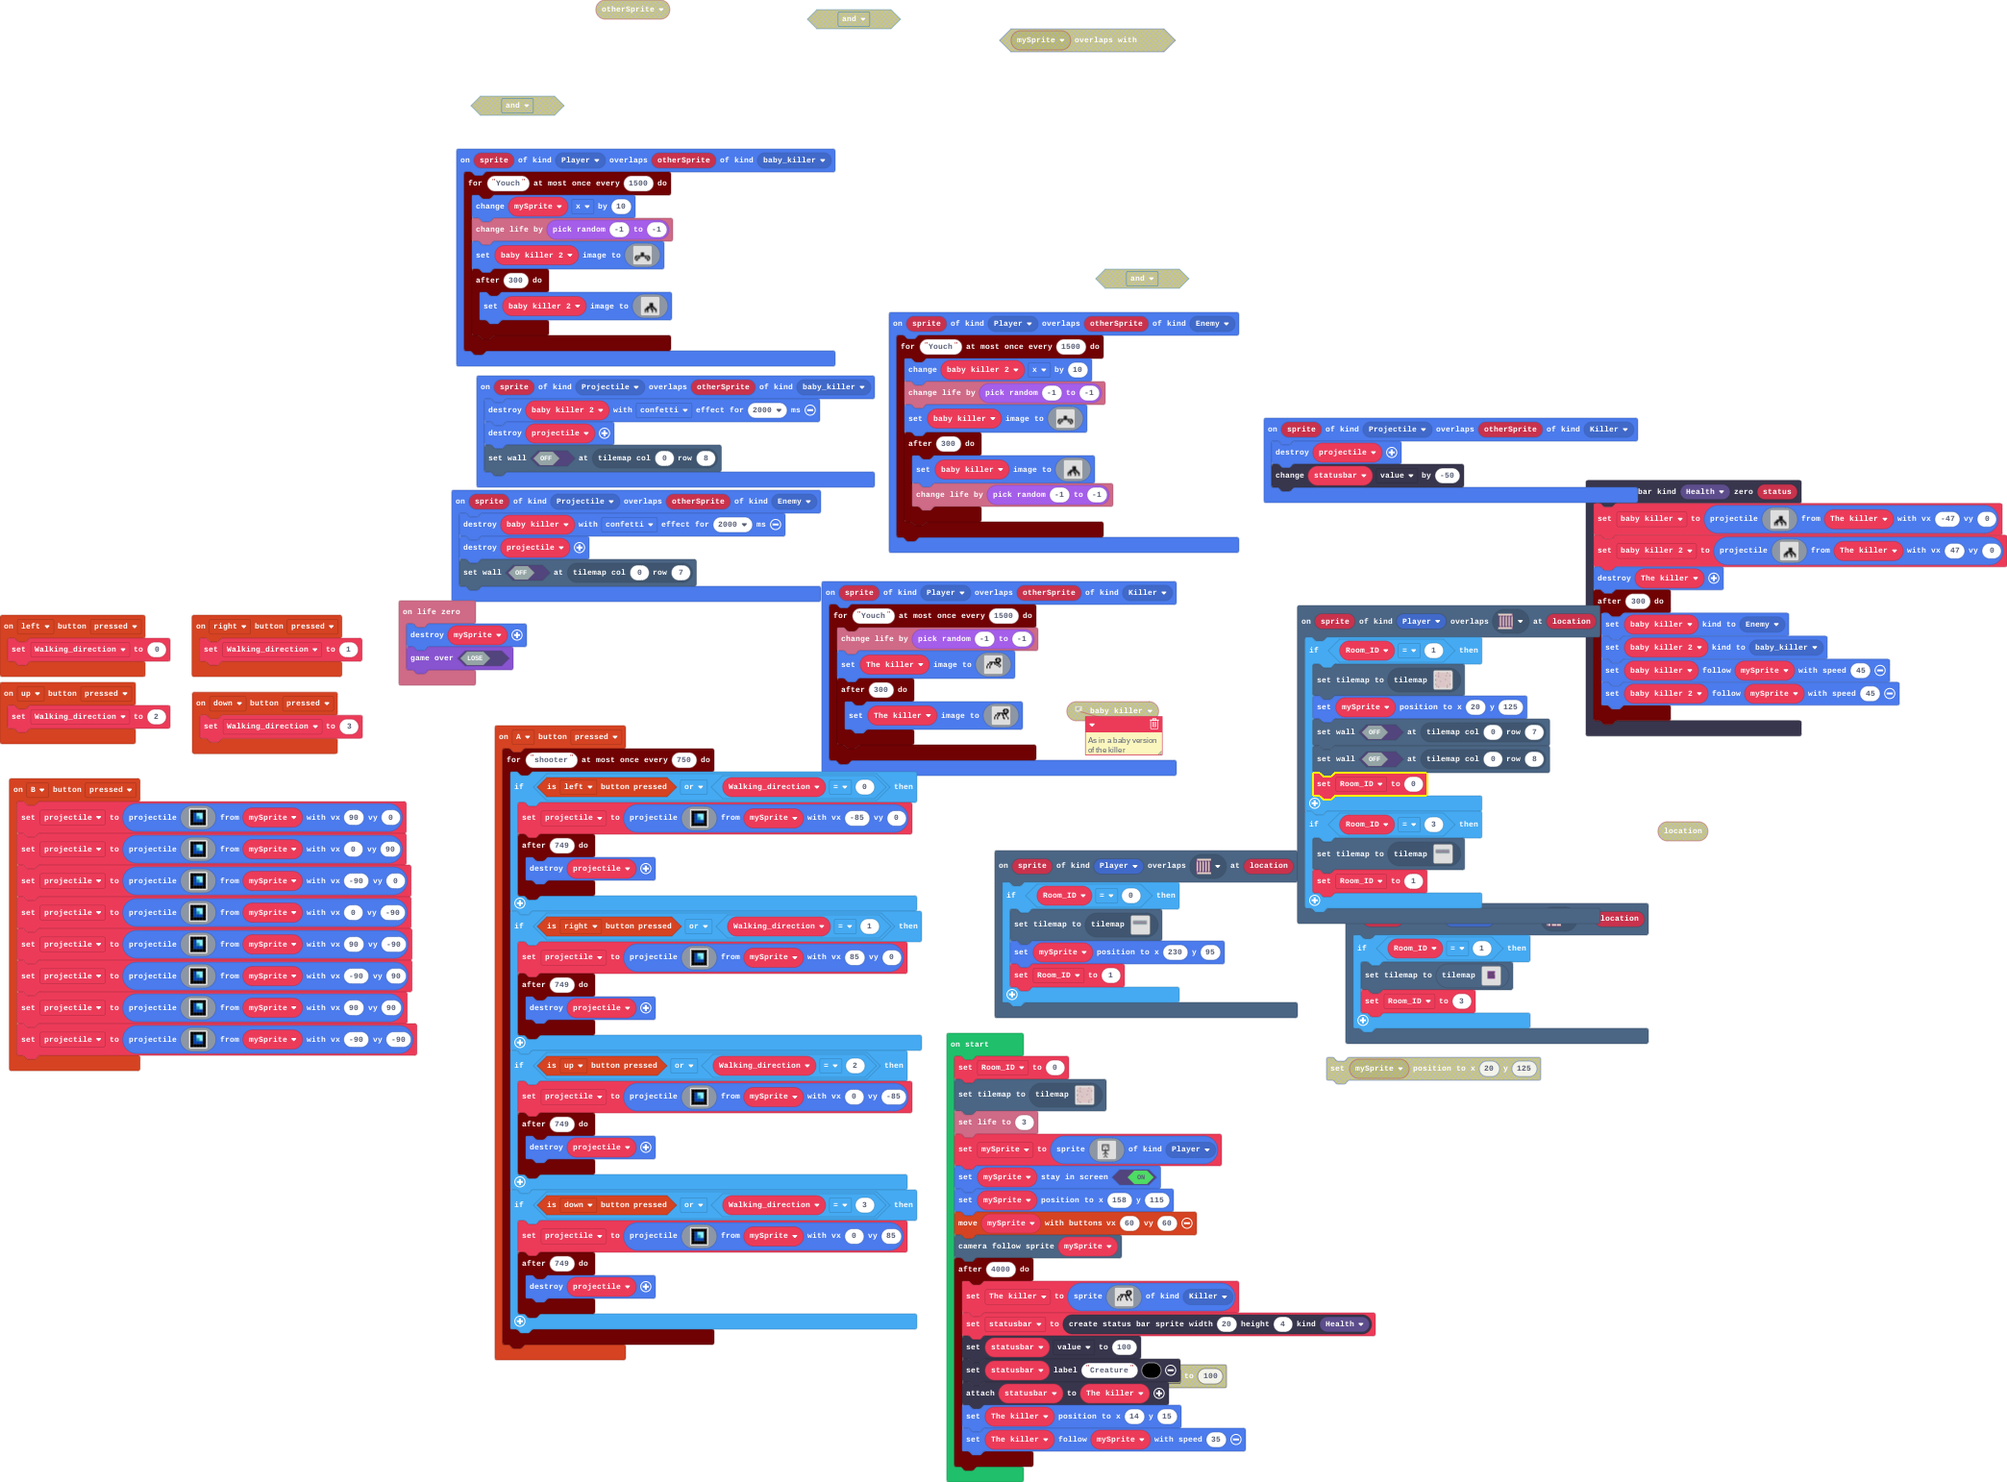
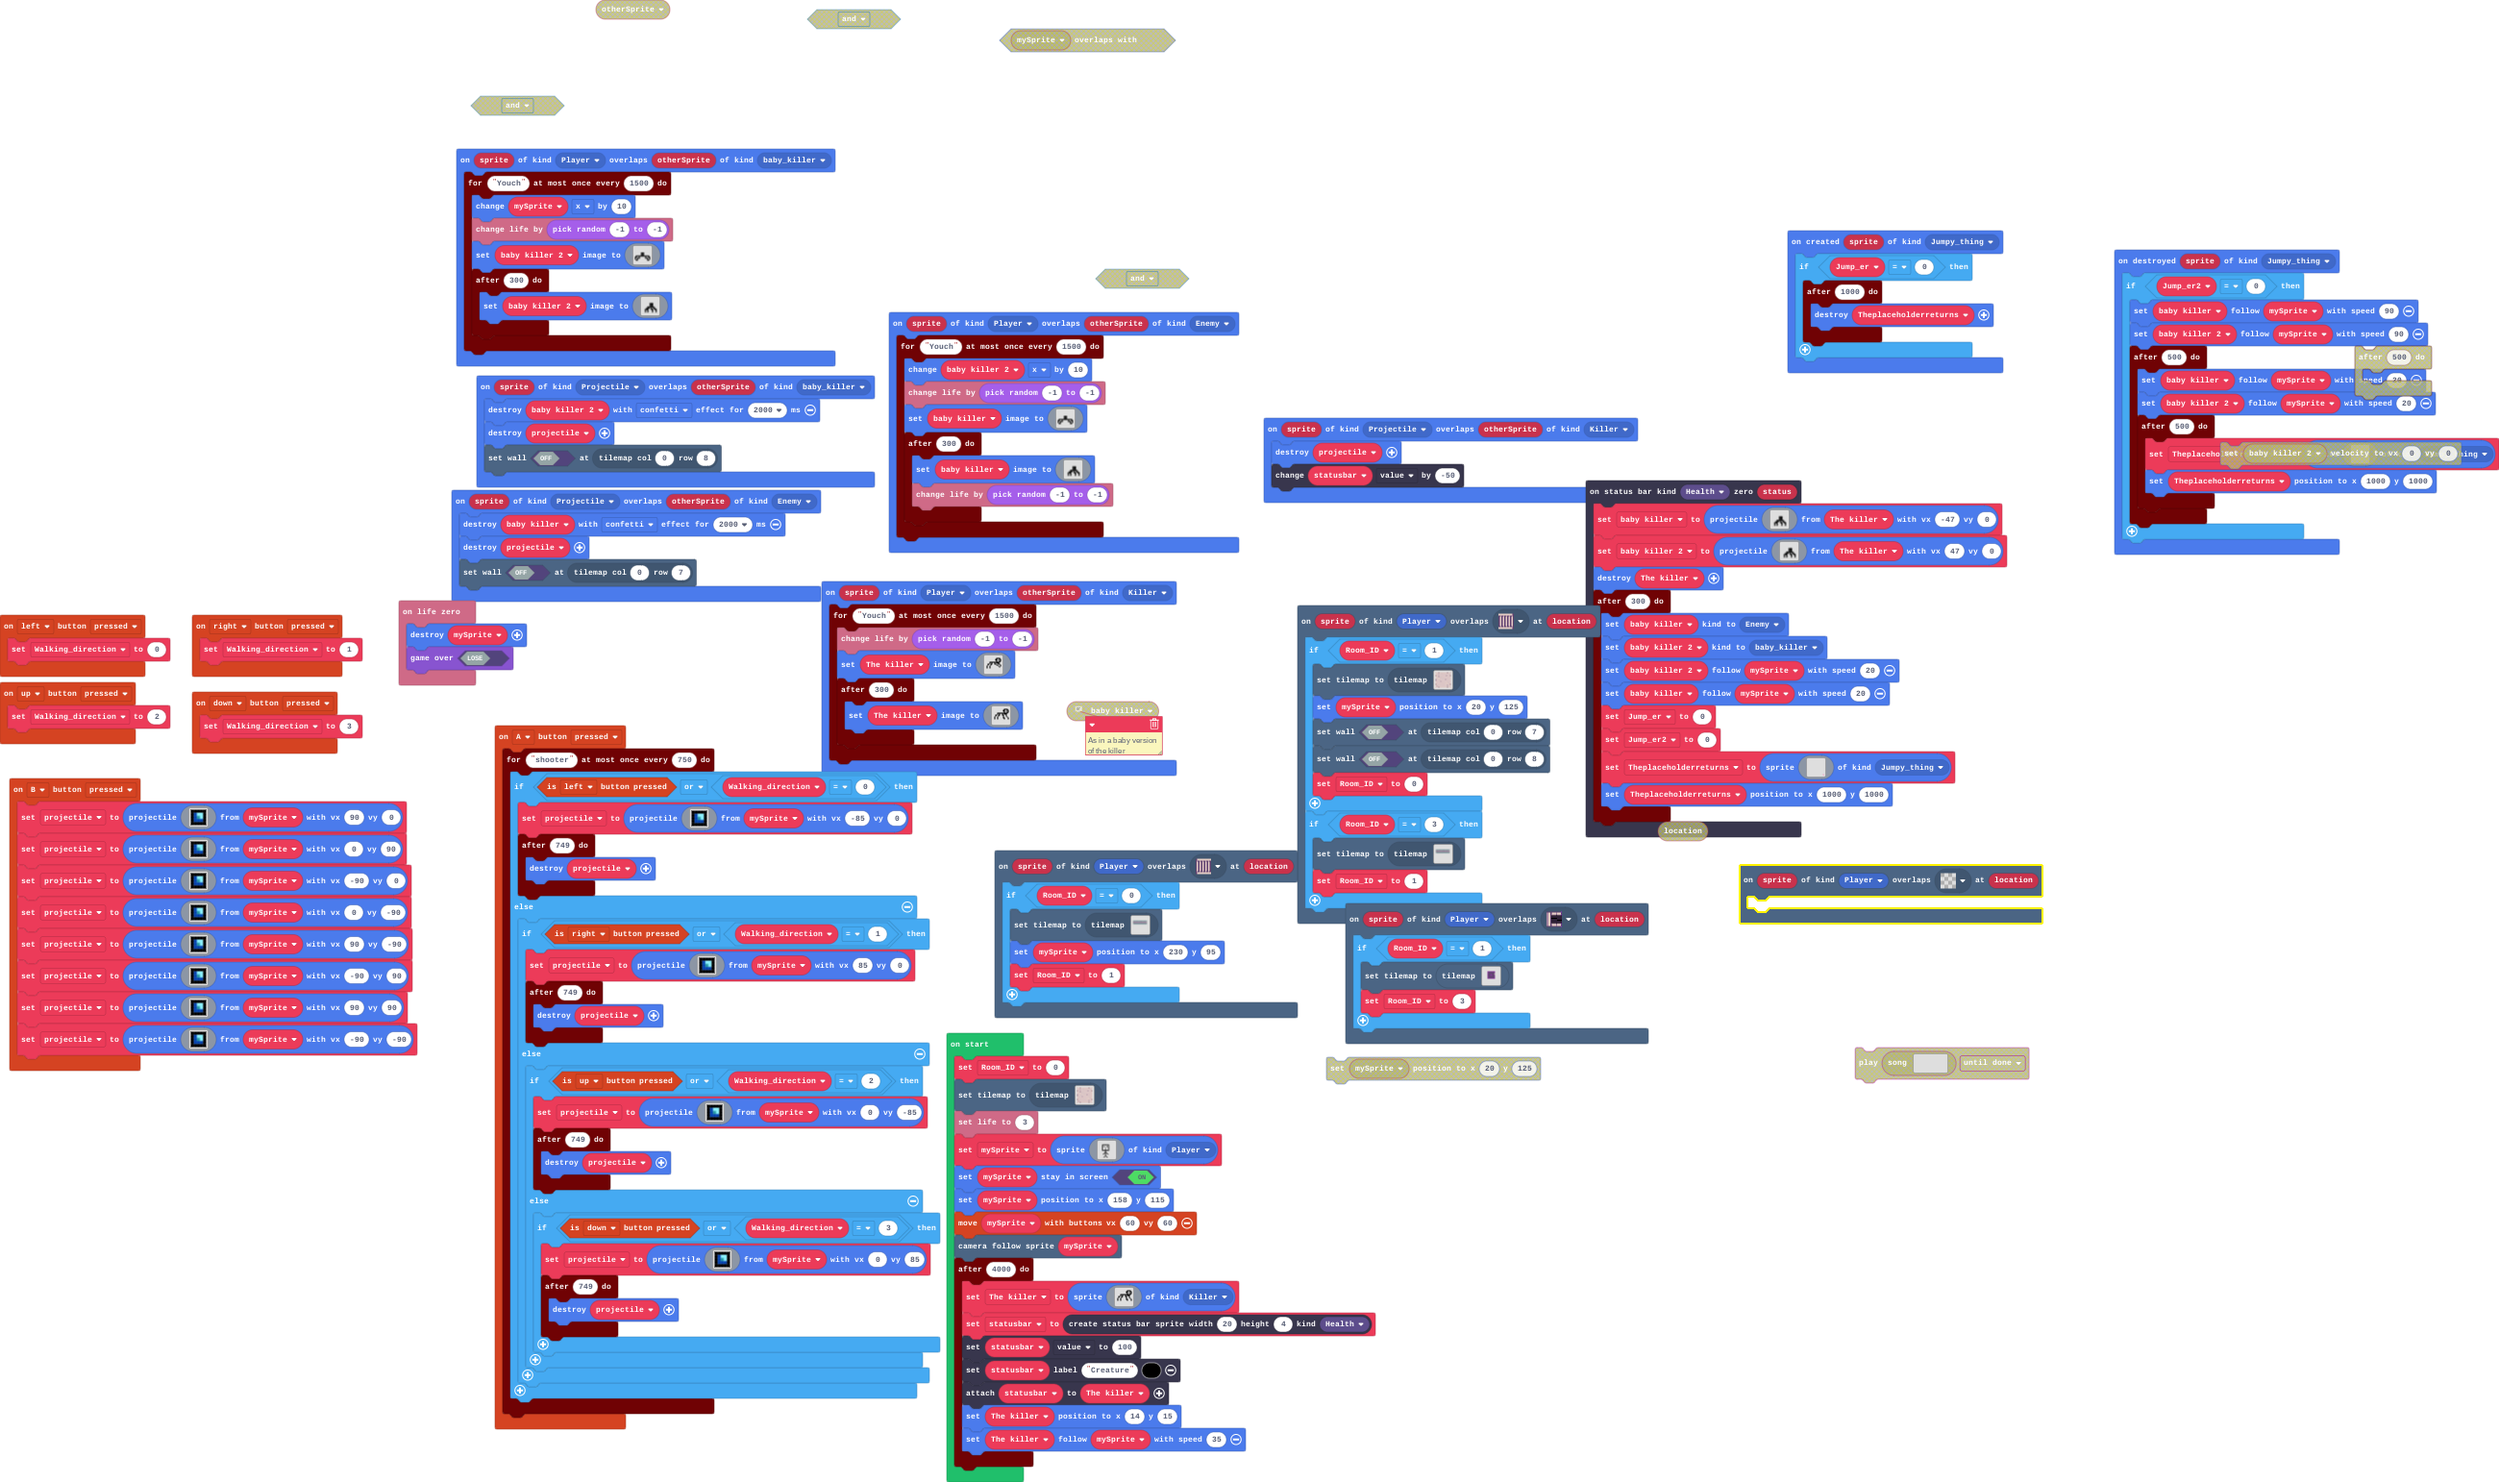
Progress save

diff --git a/main.ts b/main.ts
@@ -2,6 +2,7 @@ namespace SpriteKind {
     export const Killer = SpriteKind.create()
     export const baby_killer = SpriteKind.create()
     export const Ghost_block = SpriteKind.create()
+    export const Jumpy_thing = SpriteKind.create()
 }
 controller.up.onEvent(ControllerButtonEvent.Pressed, function () {
     Walking_direction = 2
@@ -81,42 +82,45 @@ controller.A.onEvent(ControllerButtonEvent.Pressed, function () {
             timer.after(749, function () {
                 sprites.destroy(projectile)
             })
-        }
-        if (controller.right.isPressed() || Walking_direction == 1) {
-            projectile = sprites.createProjectileFromSprite(img`
-                f f f f f 
-                f 8 9 9 f 
-                f 8 6 9 f 
-                f 8 8 8 f 
-                f f f f f 
-                `, mySprite, 85, 0)
-            timer.after(749, function () {
-                sprites.destroy(projectile)
-            })
-        }
-        if (controller.up.isPressed() || Walking_direction == 2) {
-            projectile = sprites.createProjectileFromSprite(img`
-                f f f f f 
-                f 8 9 9 f 
-                f 8 6 9 f 
-                f 8 8 8 f 
-                f f f f f 
-                `, mySprite, 0, -85)
-            timer.after(749, function () {
-                sprites.destroy(projectile)
-            })
-        }
-        if (controller.down.isPressed() || Walking_direction == 3) {
-            projectile = sprites.createProjectileFromSprite(img`
-                f f f f f 
-                f 8 9 9 f 
-                f 8 6 9 f 
-                f 8 8 8 f 
-                f f f f f 
-                `, mySprite, 0, 85)
-            timer.after(749, function () {
-                sprites.destroy(projectile)
-            })
+        } else {
+            if (controller.right.isPressed() || Walking_direction == 1) {
+                projectile = sprites.createProjectileFromSprite(img`
+                    f f f f f 
+                    f 8 9 9 f 
+                    f 8 6 9 f 
+                    f 8 8 8 f 
+                    f f f f f 
+                    `, mySprite, 85, 0)
+                timer.after(749, function () {
+                    sprites.destroy(projectile)
+                })
+            } else {
+                if (controller.up.isPressed() || Walking_direction == 2) {
+                    projectile = sprites.createProjectileFromSprite(img`
+                        f f f f f 
+                        f 8 9 9 f 
+                        f 8 6 9 f 
+                        f 8 8 8 f 
+                        f f f f f 
+                        `, mySprite, 0, -85)
+                    timer.after(749, function () {
+                        sprites.destroy(projectile)
+                    })
+                } else {
+                    if (controller.down.isPressed() || Walking_direction == 3) {
+                        projectile = sprites.createProjectileFromSprite(img`
+                            f f f f f 
+                            f 8 9 9 f 
+                            f 8 6 9 f 
+                            f 8 8 8 f 
+                            f f f f f 
+                            `, mySprite, 0, 85)
+                        timer.after(749, function () {
+                            sprites.destroy(projectile)
+                        })
+                    }
+                }
+            }
         }
     })
 })
@@ -210,8 +214,29 @@ statusbars.onZero(StatusBarKind.Health, function (status) {
     timer.after(300, function () {
         baby_killer.setKind(SpriteKind.Enemy)
         baby_killer_2.setKind(SpriteKind.baby_killer)
-        baby_killer.follow(mySprite, 45)
-        baby_killer_2.follow(mySprite, 45)
+        baby_killer_2.follow(mySprite, 20)
+        baby_killer.follow(mySprite, 20)
+        Jump_er = 0
+        Jump_er2 = 0
+        Theplaceholderreturns = sprites.create(img`
+            . . . . . . . . . . . . . . . . 
+            . . . . . . . . . . . . . . . . 
+            . . . . . . . . . . . . . . . . 
+            . . . . . . . . . . . . . . . . 
+            . . . . . . . . . . . . . . . . 
+            . . . . . . . . . . . . . . . . 
+            . . . . . . . . . . . . . . . . 
+            . . . . . . . . . . . . . . . . 
+            . . . . . . . . . . . . . . . . 
+            . . . . . . . . . . . . . . . . 
+            . . . . . . . . . . . . . . . . 
+            . . . . . . . . . . . . . . . . 
+            . . . . . . . . . . . . . . . . 
+            . . . . . . . . . . . . . . . . 
+            . . . . . . . . . . . . . . . . 
+            . . . . . . . . . . . . . . . 3 
+            `, SpriteKind.Jumpy_thing)
+        Theplaceholderreturns.setPosition(1000, 1000)
     })
 })
 controller.right.onEvent(ControllerButtonEvent.Pressed, function () {
@@ -222,6 +247,37 @@ scene.onOverlapTile(SpriteKind.Player, sprites.dungeon.stairEast, function (spri
         tiles.setCurrentTilemap(tilemap`level2`)
         mySprite.setPosition(230, 95)
         Room_ID = 1
+    }
+})
+sprites.onDestroyed(SpriteKind.Jumpy_thing, function (sprite) {
+    if (Jump_er2 == 0) {
+        baby_killer.follow(mySprite, 90)
+        baby_killer_2.follow(mySprite, 90)
+        timer.after(500, function () {
+            baby_killer.follow(mySprite, 20)
+            baby_killer_2.follow(mySprite, 20)
+            timer.after(500, function () {
+                Theplaceholderreturns = sprites.create(img`
+                    . . . . . . . . . . . . . . . . 
+                    . . . . . . . . . . . . . . . . 
+                    . . . . . . . . . . . . . . . . 
+                    . . . . . . . . . . . . . . . . 
+                    . . . . . . . . . . . . . . . . 
+                    . . . . . . . . . . . . . . . . 
+                    . . . . . . . . . . . . . . . . 
+                    . . . . . . . . . . . . . . . . 
+                    . . . . . . . . . . . . . . . . 
+                    . . . . . . . . . . . . . . . . 
+                    . . . . . . . . . . . . . . . . 
+                    . . . . . . . . . . . . . . . . 
+                    . . . . . . . . . . . . . . . . 
+                    . . . . . . . . . . . . . . . . 
+                    . . . . . . . . . . . . . . . . 
+                    . . . . . . . . . . . . . . . 3 
+                    `, SpriteKind.Jumpy_thing)
+                Theplaceholderreturns.setPosition(1000, 1000)
+            })
+        })
     }
 })
 controller.down.onEvent(ControllerButtonEvent.Pressed, function () {
@@ -271,6 +327,16 @@ sprites.onOverlap(SpriteKind.Player, SpriteKind.baby_killer, function (sprite, o
         })
     })
 })
+sprites.onCreated(SpriteKind.Jumpy_thing, function (sprite) {
+    if (Jump_er == 0) {
+        timer.after(1000, function () {
+            sprites.destroy(Theplaceholderreturns)
+        })
+    }
+})
+scene.onOverlapTile(SpriteKind.Player, assets.tile`transparency16`, function (sprite, location) {
+	
+})
 sprites.onOverlap(SpriteKind.Projectile, SpriteKind.Enemy, function (sprite, otherSprite) {
     sprites.destroy(baby_killer, effects.confetti, 2000)
     sprites.destroy(projectile)
@@ -316,6 +382,9 @@ sprites.onOverlap(SpriteKind.Player, SpriteKind.Enemy, function (sprite, otherSp
         })
     })
 })
+let Theplaceholderreturns: Sprite = null
+let Jump_er2 = 0
+let Jump_er = 0
 let baby_killer_2: Sprite = null
 let baby_killer: Sprite = null
 let projectile: Sprite = null
